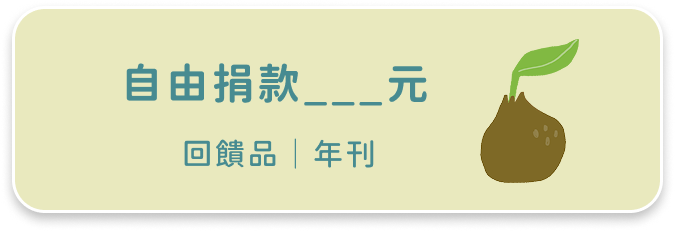
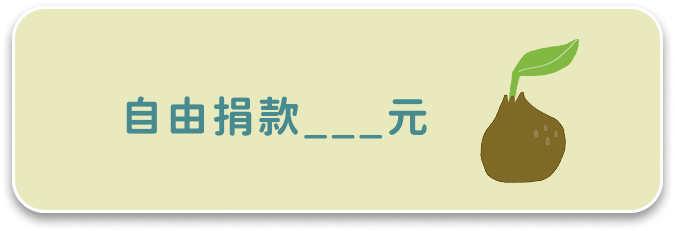
feat: MOCKING whole gift area, and modified donate btn

Changed region(s): [[0.1867, 0.2727, 0.6533, 0.7273], [0.0, 0.8485, 0.9644, 0.9697], [0.9644, 0.8485, 0.9956, 0.9091]]

diff --git a/src/components/E.vue b/src/components/E.vue
@@ -91,7 +91,7 @@
               </section>
             </div>
           </div>
-          <div :class="$style.detailsOuter">
+          <!-- <div :class="$style.detailsOuter">
             <div :class="$style.outerView">
               <h2 :class="$style.h23">回饋品介紹<small>回饋品贈完為止</small></h2>
               <div :class="$style.projectPublications">
@@ -99,42 +99,42 @@
                   <img :class="$style.giftImg" loading="lazy" alt="" src="/-1-1@2x.png" />
                   <div :class="$style.container">
                     <h3 :class="$style.h31">服務年刊</h3>
-                    <!-- <div :class="$style.div6">
+                    <div :class="$style.div6">
                       <p :class="$style.p">每年一次的服務成果分享，看見陪伴與成長。</p>
-                    </div> -->
+                    </div>
                   </div>
                 </section>
                 <section :class="$style.releaseData">
                   <img :class="$style.giftImg" loading="lazy" alt="" src="/dscf5791@2x.png" />
                   <div :class="$style.container">
                     <h3 :class="$style.h31">鬧卡</h3>
-                    <!-- <div :class="$style.div6">
+                    <div :class="$style.div6">
                       <p :class="$style.p">以情緒教育為核心設計，透過插畫與情境文字，引導覺察感受、調節情緒，穩定自己，也理解他人！</p>
-                    </div> -->
+                    </div>
                   </div>
                 </section>
                 <section :class="$style.releaseData">
                   <img :class="$style.giftImg" loading="lazy" alt="" src="/-1-11@2x.png" />
                   <div :class="$style.container">
                     <h3 :class="$style.h31">療癒香氛蠟燭</h3>
-                    <!-- <div :class="$style.div6">
+                    <div :class="$style.div6">
                       <p :class="$style.p">
                         先照顧好自己，才有能量照顧好他人，邀請您用氣味療癒紓壓，擁抱自己的內心感受。</p>
-                    </div> -->
+                    </div>
                   </div>
                 </section>
                 <section :class="$style.releaseData">
                   <img :class="$style.giftImg" loading="lazy" alt="" src="/all-2@2x.png" />
                   <div :class="$style.container">
                     <h3 :class="$style.h31">兒福聯盟 × plain-me水桶包</h3>
-                    <!-- <div :class="$style.div6">
+                    <div :class="$style.div6">
                       <p :class="$style.p">心情不好的時候就背起包包出門走走吧，一切都會慢慢好起來的。(顏色將隨機出貨)</p>
-                    </div> -->
+                    </div>
                   </div>
                 </section>
               </div>
             </div>
-          </div>
+          </div> -->
         </div>
       </div>
       <div :class="$style.externalBottomParent">
